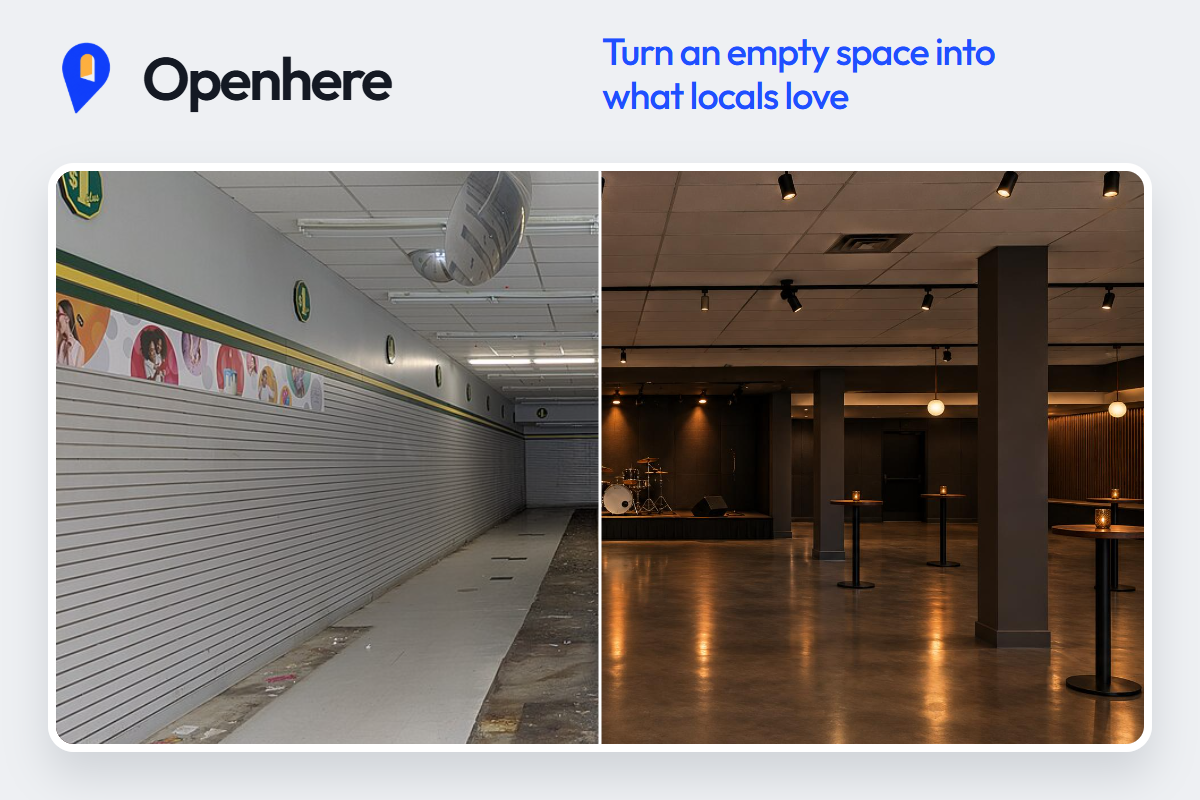
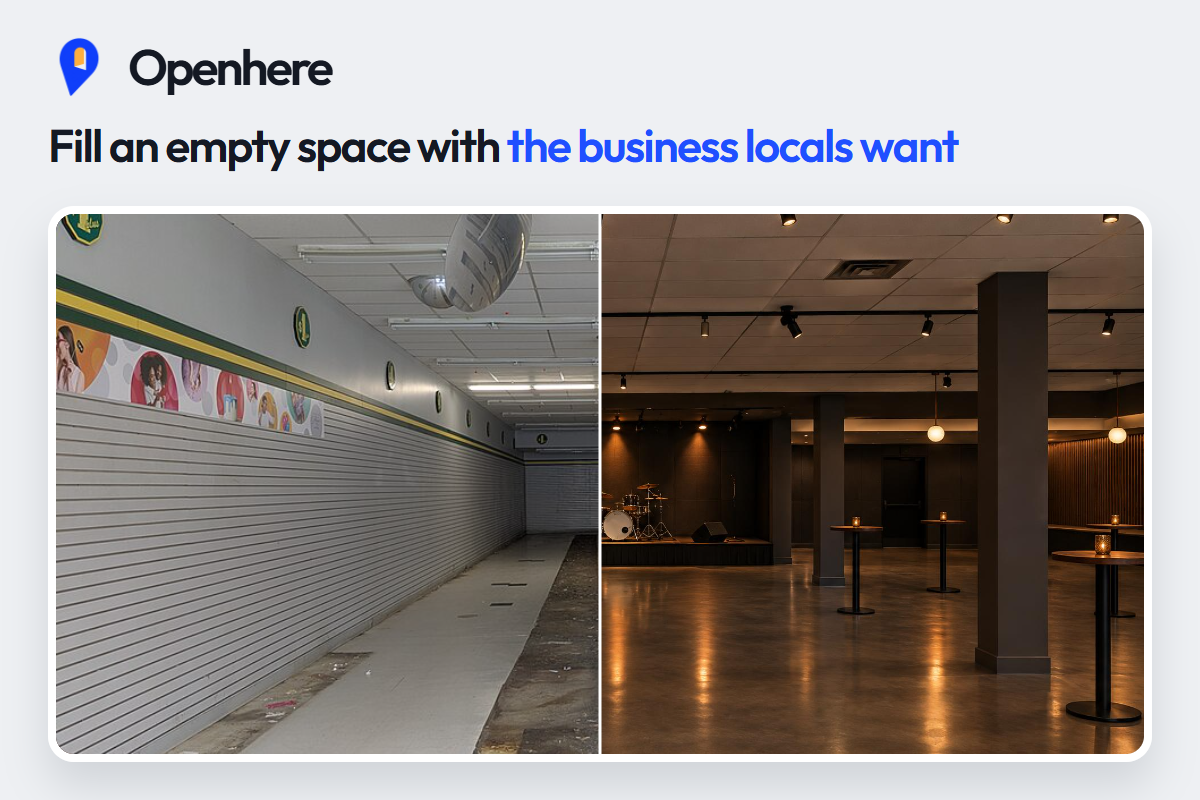
SmallTalk in VR: a thin subtitle bar instead of a big panel; new thumbnails

Changed region(s): [[0.0308, 0.0312, 0.9558, 0.9688]]

diff --git a/public/talk-xr.js b/public/talk-xr.js
@@ -1,36 +1,34 @@
-// AR/VR heads-up for SmallTalk: a panel that floats about a metre in front of you and lazily follows your
-// gaze, drawn to a canvas so it stays crisp in the headset. Passthrough AR on Quest when available,
-// otherwise immersive VR. Holding either trigger marks the lines as yours.
+// AR/VR heads-up for SmallTalk: a thin bar just below your eye line, like a subtitle, showing the one thing to
+// say next and updating as the conversation goes. It lazily follows your gaze and is drawn to a canvas so it stays
+// crisp in the headset. Passthrough AR on Quest when available, otherwise immersive VR. Holding either trigger
+// marks the lines as yours.
 const THREE = await import('https://cdn.jsdelivr.net/npm/three@0.180.0/build/three.module.js');
 
-const W = 1024, H = 640;
-// SmallTalk's look: off-black panel, one burnt-orange accent, Geist (already loaded by the page).
+const W = 1600, H = 200;
+// SmallTalk's look: off-black bar, one burnt-orange accent, Geist (already loaded by the page).
 const ACCENT = '#f27434', SANS = 'Geist, system-ui, sans-serif', MONO = '"Geist Mono", monospace';
 function draw(ctx, view, status = '') {
   ctx.clearRect(0, 0, W, H);
-  ctx.fillStyle = 'rgba(17,16,19,0.88)'; roundRect(ctx, 0, 0, W, H, 40); ctx.fill();
-  ctx.fillStyle = ACCENT; ctx.font = `600 26px ${SANS}`; ctx.fillText('SmallTalk', 48, 64);
-  if (status) { ctx.fillStyle = '#a7a5ad'; ctx.font = `500 22px ${MONO}`; const w = ctx.measureText(status).width; ctx.fillText(status, W - 48 - w, 62); ctx.fillStyle = ACCENT; ctx.beginPath(); ctx.arc(W - 64 - w, 54, 7, 0, Math.PI * 2); ctx.fill(); }
-  const nudges = view?.nudges || [];
-  let y = 140;
-  if (!nudges.length) { ctx.fillStyle = '#a7a5ad'; ctx.font = `600 40px ${SANS}`; wrap(ctx, 'Listening for what they love.', 48, y, W - 96, 50); }
-  nudges.slice(0, 2).forEach((n, i) => {
-    ctx.fillStyle = i ? '#d9d6d0' : '#ffffff'; ctx.font = `${i ? 500 : 600} ${i ? 36 : 52}px ${SANS}`;
-    y = wrap(ctx, n.say, 48, y, W - 96, i ? 44 : 60) + 6;
-    ctx.fillStyle = n.grounded ? ACCENT : '#7a7880'; ctx.font = `500 22px ${MONO}`; ctx.fillText(`${n.about}${n.grounded ? '' : ' (not from Qloo)'}`.slice(0, 70), 48, y); y += 58;
-  });
-  const row = (label, list, yy) => { if (!list) return; ctx.fillStyle = '#7a7880'; ctx.font = `500 20px ${MONO}`; ctx.fillText(label, 48, yy); ctx.fillStyle = '#f3f2ef'; ctx.font = `500 26px ${SANS}`; ctx.fillText(list.slice(0, 60), 220, yy); };
-  row('They love', (view?.them || []).slice(0, 5).map(e => e.name).join(', '), H - 78);
-  row('Steer clear', (view?.avoid || []).slice(0, 4).map(e => e.name).join(', '), H - 38);
+  ctx.fillStyle = 'rgba(17,16,19,0.8)'; roundRect(ctx, 0, 0, W, H, H / 2); ctx.fill();
+  const nudge = (view?.nudges || [])[0], x = 104, max = W - x - 80;
+  // A dot that says it is listening, in the accent while a nudge is up.
+  ctx.fillStyle = nudge ? ACCENT : '#7a7880'; ctx.beginPath(); ctx.arc(62, H / 2, 11, 0, Math.PI * 2); ctx.fill();
+  // One line, as large as fits: the thing to say next.
+  const line = nudge ? nudge.say : 'Listening for what they love';
+  let size = 56;
+  do { ctx.font = `600 ${size}px ${SANS}`; } while (ctx.measureText(line).width > max && --size > 36);
+  ctx.fillStyle = nudge ? '#ffffff' : '#a7a5ad';
+  ctx.fillText(fit(ctx, line, max), x, 98);
+  // Underneath, small: what it is about and where it came from, and what the app is doing.
+  ctx.font = `500 26px ${MONO}`;
+  if (nudge) { ctx.fillStyle = nudge.grounded ? ACCENT : '#7a7880'; ctx.fillText(fit(ctx, `${nudge.about} · ${nudge.grounded ? 'from Qloo' : 'not from Qloo'}`, max - 320), x, 152); }
+  if (status) { ctx.fillStyle = '#7a7880'; const w = ctx.measureText(status).width; ctx.fillText(status, W - 80 - w, 152); }
 }
-function wrap(ctx, text, x, y, max, lh) {
-  let lineText = '';
-  for (const word of String(text).split(' ')) {
-    const test = lineText ? `${lineText} ${word}` : word;
-    if (ctx.measureText(test).width > max && lineText) { ctx.fillText(lineText, x, y); y += lh; lineText = word; } else lineText = test;
-  }
-  if (lineText) { ctx.fillText(lineText, x, y); y += lh; }
-  return y;
+function fit(ctx, text, max) {
+  if (ctx.measureText(text).width <= max) return text;
+  let t = text;
+  while (t.length > 1 && ctx.measureText(`${t}…`).width > max) t = t.slice(0, -1);
+  return `${t.trimEnd()}…`;
 }
 function roundRect(ctx, x, y, w, h, r) { ctx.beginPath(); ctx.moveTo(x + r, y); ctx.arcTo(x + w, y, x + w, y + h, r); ctx.arcTo(x + w, y + h, x, y + h, r); ctx.arcTo(x, y + h, x, y, r); ctx.arcTo(x, y, x + w, y, r); ctx.closePath(); }
 
@@ -49,7 +47,7 @@ export async function enterXR({ view, status: initialStatus = 'Listening', onTal
   const canvas = Object.assign(document.createElement('canvas'), { width: W, height: H });
   const ctx = canvas.getContext('2d');
   const texture = new THREE.CanvasTexture(canvas); texture.colorSpace = THREE.SRGBColorSpace;
-  const panel = new THREE.Mesh(new THREE.PlaneGeometry(0.8, 0.5), new THREE.MeshBasicMaterial({ map: texture, transparent: true }));
+  const panel = new THREE.Mesh(new THREE.PlaneGeometry(0.84, 0.105), new THREE.MeshBasicMaterial({ map: texture, transparent: true }));
   scene.add(panel);
   draw(ctx, view, status); texture.needsUpdate = true;
 
@@ -58,15 +56,15 @@ export async function enterXR({ view, status: initialStatus = 'Listening', onTal
   session.addEventListener('selectstart', () => onTalking(true));
   session.addEventListener('selectend', () => onTalking(false));
 
-  // Lazy follow: the panel eases toward a point 1.1 m ahead and 15 cm below eye level.
+  // Lazy follow: the bar eases toward a point a metre ahead and 28 cm below eye level, where subtitles sit.
   const target = new THREE.Vector3(), dir = new THREE.Vector3(), head = new THREE.Vector3();
   let placed = false;
   renderer.setAnimationLoop(() => {
     const cam = renderer.xr.getCamera();
     cam.getWorldPosition(head); cam.getWorldDirection(dir); dir.y = 0; dir.normalize();
-    target.copy(head).addScaledVector(dir, 1.1); target.y = head.y - 0.15;
+    target.copy(head).addScaledVector(dir, 1.0); target.y = head.y - 0.28;
     if (!placed) { panel.position.copy(target); placed = true; } else panel.position.lerp(target, 0.04);
-    panel.lookAt(head.x, panel.position.y, head.z);
+    panel.lookAt(head);
     renderer.render(scene, camera);
   });
   const cleanup = () => { renderer.setAnimationLoop(null); renderer.domElement.remove(); renderer.dispose(); onEnd?.(); };

diff --git a/docs/devpost/smalltalk.md b/docs/devpost/smalltalk.md
@@ -36,7 +36,7 @@ Tick that the other person knows you're using a conversation assistant, then let
 - **Steer clear.** Things they dislike are kept apart. "I can't stand superhero films" becomes a Qloo genre tag, never a film that happens to share a word.
 - **Say next.** Three short things you could say, each tied to a Qloo result for their taste. Anything that isn't from Qloo is marked.
 - **With and without Qloo.** The same conversation goes to an LLM alone. In the recorded sample, 1 of its 6 suggestions fits their taste (Aftersun). The rest are real but not what people with this taste rate.
-- **Three ways to see it.** The full view on a phone or laptop, a glasses view (one nudge, huge, white on black, for display glasses) and an AR/VR view where the nudges float in front of you in a Quest headset.
+- **Three ways to see it.** The full view on a phone or laptop, a glasses view (one nudge, huge, white on black, for display glasses) and an AR/VR view: a thin bar just below your eye line, like a subtitle, showing the one thing to say next as the conversation goes. On Quest it sits over the real room through passthrough.
 
 A recorded first coffee replays line by line, with no keys needed, so anyone can try it in seconds.
 
@@ -49,7 +49,7 @@ A Node 22 server with no build step. The browser records 6-second chunks of audi
 3. Qloo `/search` finds each one (a hit only counts if it shares a real word with what was said), and `/v2/tags` handles genres.
 4. Qloo `/v2/insights` with `signal.interests.entities` set to their taste returns what people like them also love, across music, film, TV, books, podcasts, brands and places. With your favourites added and `feature.explainability=true`, a pick counts as shared when both of you drive at least a quarter of it.
 5. The model writes three nudges using only names Qloo returned; a check flags anything else.
-6. The AR/VR view uses three.js and WebXR, with passthrough on Quest.
+6. The AR/VR view is a subtitle-style bar drawn with three.js and WebXR. It eases after your gaze so it stays readable, and sits over the real room through passthrough on Quest.
 
 On a serverless host each turn can land on a fresh instance, so the page sends the conversation's state back with each line. Tests run against a fake Qloo, LLM and speech service, and every paid call has per-visitor limits.
 

diff --git a/docs/smalltalk.md b/docs/smalltalk.md
@@ -55,7 +55,7 @@ what they say ──► speech to text ──► the names they mention
 
 - **Phone or laptop:** the full view.
 - **Glasses view:** one nudge, huge, white on black, for display glasses mirroring a phone.
-- **Enter AR / VR:** the nudges float in front of you in WebXR, with Quest passthrough when available ([`public/talk-xr.js`](../public/talk-xr.js)). Hold the trigger while you speak.
+- **Enter AR / VR:** a thin bar just below your eye line, like a subtitle, shows the one thing to say next and updates as you talk. It runs in WebXR, with Quest passthrough when available ([`public/talk-xr.js`](../public/talk-xr.js)). Hold the trigger while you speak.
 
 ## Tests
 
